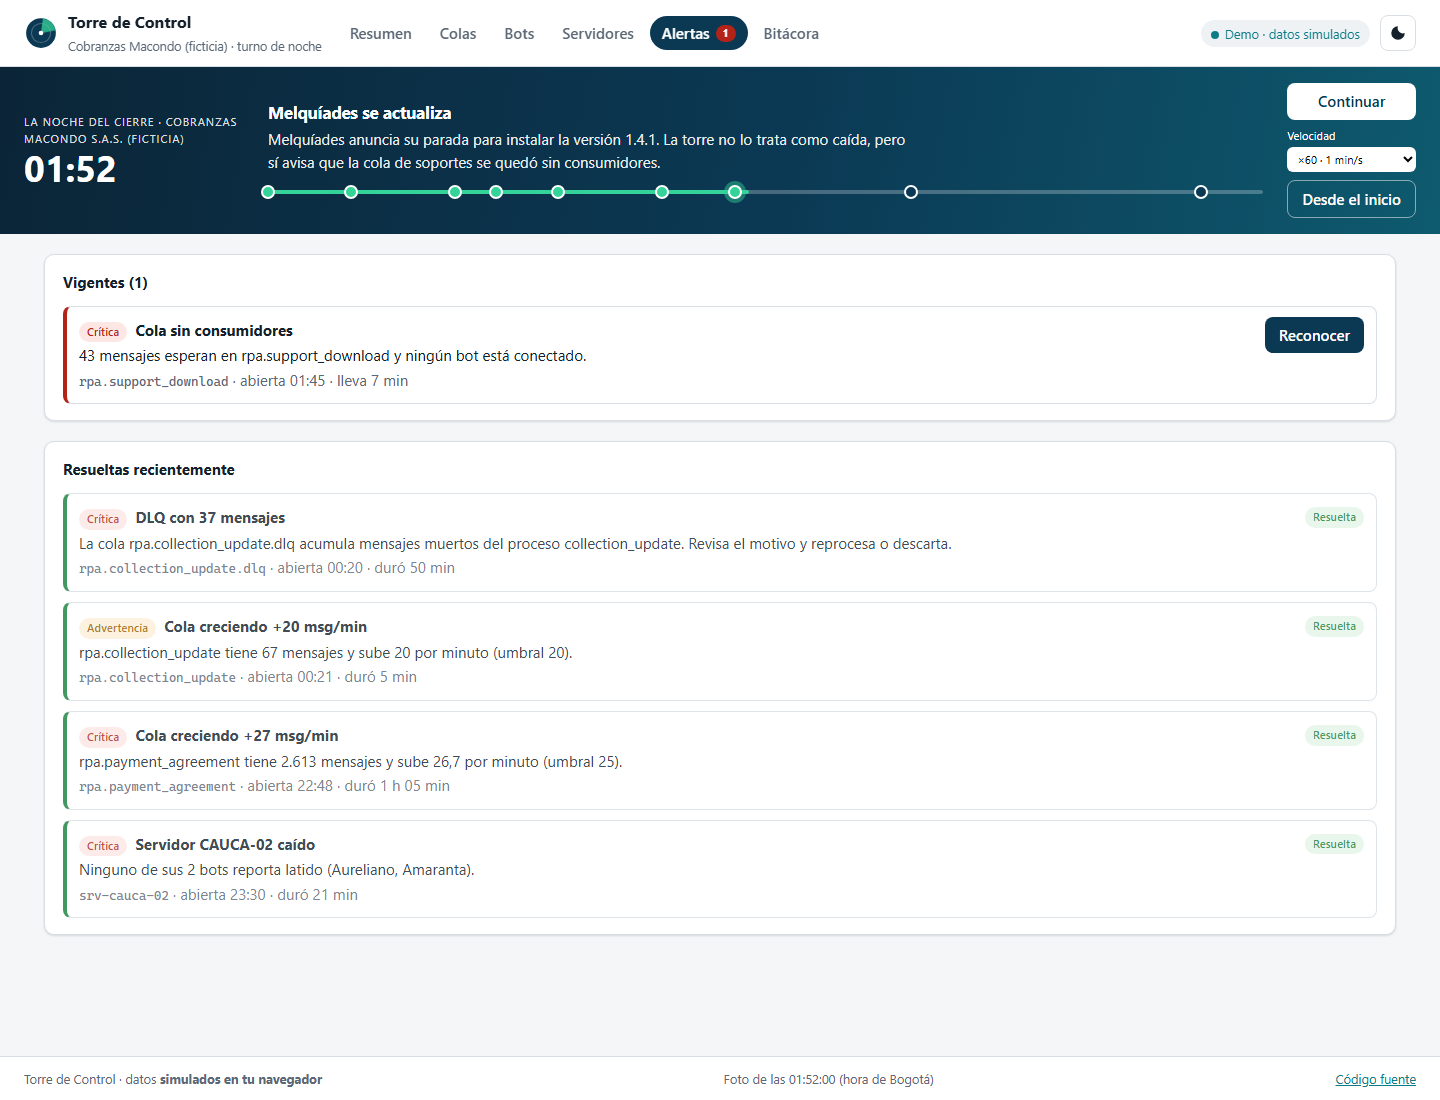
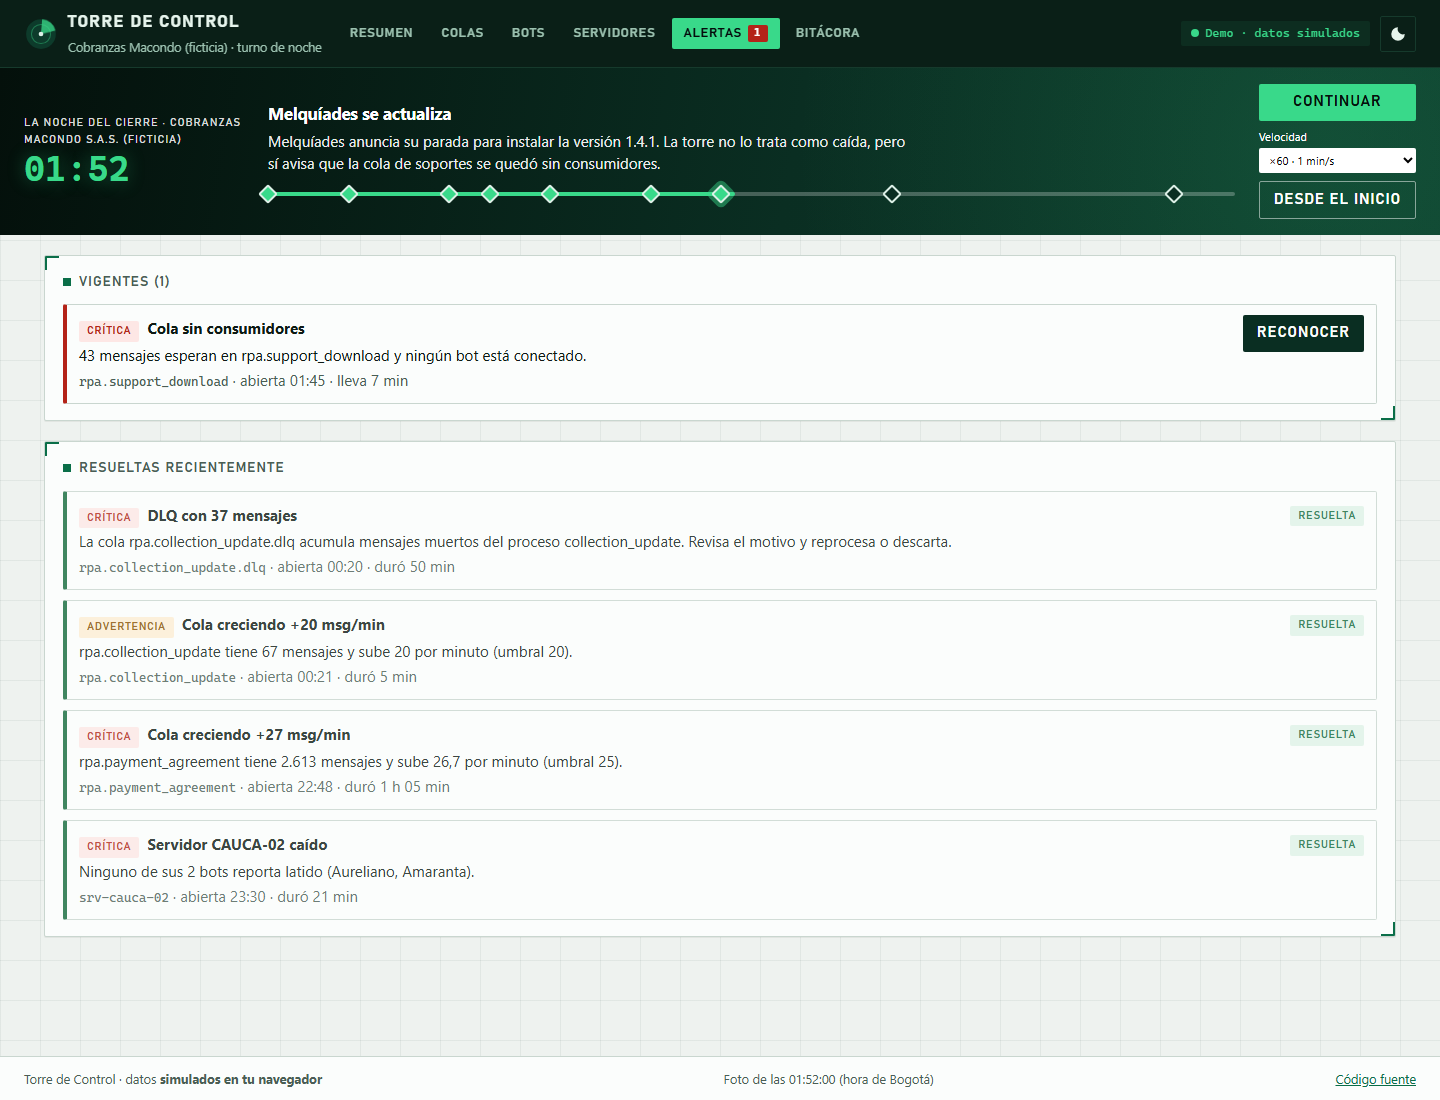
docs: capturas con la nueva identidad y vista previa al compartir la demo
Capturas regeneradas con npm run captura; la insignia de licencia toma el
color del proyecto.

diff --git a/src/tablero/index.html b/src/tablero/index.html
@@ -6,6 +6,15 @@
     <meta name="theme-color" content="#0a1f17" />
     <title>Torre de Control</title>
     <meta name="description" content="Monitoreo en tiempo real de bots RPA: colas, bots, servidores y alertas." />
+    <meta property="og:type" content="website" />
+    <meta property="og:locale" content="es_CO" />
+    <meta property="og:title" content="Torre de Control · monitoreo en tiempo real de bots RPA" />
+    <meta property="og:description" content="Monitoreo en tiempo real de bots RPA: colas, bots, servidores y alertas." />
+    <meta property="og:url" content="https://darwinmontiel.github.io/torre-de-control/" />
+    <meta property="og:image" content="https://darwinmontiel.github.io/assets/img/og/torre-de-control.jpg" />
+    <meta property="og:image:width" content="1200" />
+    <meta property="og:image:height" content="630" />
+    <meta name="twitter:card" content="summary_large_image" />
     <meta name="color-scheme" content="light dark" />
     <link
       rel="icon"

diff --git a/README.md b/README.md
@@ -6,7 +6,7 @@
 ![TypeScript](https://img.shields.io/badge/TypeScript-estricto-3178C6?logo=typescript&logoColor=white)
 ![Fastify](https://img.shields.io/badge/Fastify-000000?logo=fastify&logoColor=white)
 ![Redis](https://img.shields.io/badge/Redis-DC382D?logo=redis&logoColor=white)
-[![Licencia MIT](https://img.shields.io/badge/licencia-MIT-0d9488)](LICENSE)
+[![Licencia MIT](https://img.shields.io/badge/licencia-MIT-0a6e48)](LICENSE)
 
 **Monitoreo en tiempo real de bots RPA.** Lee las colas de RabbitMQ, cataloga servidores y bots,
 recibe sus latidos y dispara alertas con escalamiento e inhibición: la cola que crece, la DLQ que
